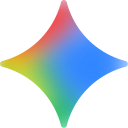
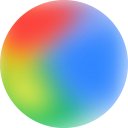
图标从菱形改为圆形

diff --git a/generate-icons.js b/generate-icons.js
@@ -7,7 +7,7 @@ if (!fs.existsSync(iconsDir)) {
   fs.mkdirSync(iconsDir);
 }
 
-const svgContent = `<svg width="512" height="512" fill="none" xmlns="http://www.w3.org/2000/svg" viewBox="0 0 65 65"><mask id="maskme" style="mask-type:alpha" maskUnits="userSpaceOnUse" x="0" y="0" width="65" height="65"><path d="M32.447 0c.68 0 1.273.465 1.439 1.125a38.904 38.904 0 001.999 5.905c2.152 5 5.105 9.376 8.854 13.125 3.751 3.75 8.126 6.703 13.125 8.855a38.98 38.98 0 005.906 1.999c.66.166 1.124.758 1.124 1.438 0 .68-.464 1.273-1.125 1.439a38.902 38.902 0 00-5.905 1.999c-5 2.152-9.375 5.105-13.125 8.854-3.749 3.751-6.702 8.126-8.854 13.125a38.973 38.973 0 00-2 5.906 1.485 1.485 0 01-1.438 1.124c-.68 0-1.272-.464-1.438-1.125a38.913 38.913 0 00-2-5.905c-2.151-5-5.103-9.375-8.854-13.125-3.75-3.749-8.125-6.702-13.125-8.854a38.973 38.973 0 00-5.905-2A1.485 1.485 0 010 32.448c0-.68.465-1.272 1.125-1.438a38.903 38.903 0 005.905-2c5-2.151 9.376-5.104 13.125-8.854 3.75-3.749 6.703-8.125 8.855-13.125a38.972 38.972 0 001.999-5.905A1.485 1.485 0 0132.447 0z" fill="#000"/><path d="M32.447 0c.68 0 1.273.465 1.439 1.125a38.904 38.904 0 001.999 5.905c2.152 5 5.105 9.376 8.854 13.125 3.751 3.75 8.126 6.703 13.125 8.855a38.98 38.98 0 005.906 1.999c.66.166 1.124.758 1.124 1.438 0 .68-.464 1.273-1.125 1.439a38.902 38.902 0 00-5.905 1.999c-5 2.152-9.375 5.105-13.125 8.854-3.749 3.751-6.702 8.126-8.854 13.125a38.973 38.973 0 00-2 5.906 1.485 1.485 0 01-1.438 1.124c-.68 0-1.272-.464-1.438-1.125a38.913 38.913 0 00-2-5.905c-2.151-5-5.103-9.375-8.854-13.125-3.75-3.749-8.125-6.702-13.125-8.854a38.973 38.973 0 00-5.905-2A1.485 1.485 0 010 32.448c0-.68.465-1.272 1.125-1.438a38.903 38.903 0 005.905-2c5-2.151 9.376-5.104 13.125-8.854 3.75-3.749 6.703-8.125 8.855-13.125a38.972 38.972 0 001.999-5.905A1.485 1.485 0 0132.447 0z" fill="url(#prefix__paint0_linear_2001_67)"/></mask><g mask="url(#maskme)"><g filter="url(#prefix__filter0_f_2001_67)"><path d="M-5.859 50.734c7.498 2.663 16.116-2.33 19.249-11.152 3.133-8.821-.406-18.131-7.904-20.794-7.498-2.663-16.116 2.33-19.25 11.151-3.132 8.822.407 18.132 7.905 20.795z" fill="#FFE432"/></g><g filter="url(#prefix__filter1_f_2001_67)"><path d="M27.433 21.649c10.3 0 18.651-8.535 18.651-19.062 0-10.528-8.35-19.062-18.651-19.062S8.78-7.94 8.78 2.587c0 10.527 8.35 19.062 18.652 19.062z" fill="#FC413D"/></g><g filter="url(#prefix__filter2_f_2001_67)"><path d="M20.184 82.608c10.753-.525 18.918-12.244 18.237-26.174-.68-13.93-9.95-24.797-20.703-24.271C6.965 32.689-1.2 44.407-.519 58.337c.681 13.93 9.95 24.797 20.703 24.271z" fill="#00B95C"/></g><g filter="url(#prefix__filter3_f_2001_67)"><path d="M20.184 82.608c10.753-.525 18.918-12.244 18.237-26.174-.68-13.93-9.95-24.797-20.703-24.271C6.965 32.689-1.2 44.407-.519 58.337c.681 13.93 9.95 24.797 20.703 24.271z" fill="#00B95C"/></g><g filter="url(#prefix__filter4_f_2001_67)"><path d="M30.954 74.181c9.014-5.485 11.427-17.976 5.389-27.9-6.038-9.925-18.241-13.524-27.256-8.04-9.015 5.486-11.428 17.977-5.39 27.902 6.04 9.924 18.242 13.523 27.257 8.038z" fill="#00B95C"/></g><g filter="url(#prefix__filter5_f_2001_67)"><path d="M67.391 42.993c10.132 0 18.346-7.91 18.346-17.666 0-9.757-8.214-17.667-18.346-17.667s-18.346 7.91-18.346 17.667c0 9.757 8.214 17.666 18.346 17.666z" fill="#3186FF"/></g><g filter="url(#prefix__filter6_f_2001_67)"><path d="M-13.065 40.944c9.33 7.094 22.959 4.869 30.442-4.972 7.483-9.84 5.987-23.569-3.343-30.663C4.704-1.786-8.924.439-16.408 10.28c-7.483 9.84-5.986 23.57 3.343 30.664z" fill="#FBBC04"/></g><g filter="url(#prefix__filter7_f_2001_67)"><path d="M34.74 51.43c11.135 7.656 25.896 5.524 32.968-4.764 7.073-10.287 3.779-24.832-7.357-32.488C49.215 6.52 34.455 8.654 27.382 18.94c-7.072 10.288-3.779 24.833 7.357 32.49z" fill="#3186FF"/></g><g filter="url(#prefix__filter8_f_2001_67)"><path d="M54.984-2.336c2.833 3.852-.808 11.34-8.131 16.727-7.324 5.387-15.557 6.631-18.39 2.78-2.833-3.853.807-11.342 8.13-16.728 7.324-5.387 15.558-6.631 18.39-2.78z" fill="#749BFF"/></g><g filter="url(#prefix__filter9_f_2001_67)"><path d="M31.727 16.104C43.053 5.598 46.94-8.626 40.41-15.666c-6.53-7.04-21.006-4.232-32.332 6.274s-15.214 24.73-8.683 31.77c6.53 7.04 21.006 4.232 32.332-6.274z" fill="#FC413D"/></g><g filter="url(#prefix__filter10_f_2001_67)"><path d="M8.51 53.838c6.732 4.818 14.46 5.55 17.262 1.636 2.802-3.915-.384-10.994-7.116-15.812-6.731-4.818-14.46-5.55-17.261-1.636-2.802 3.915.383 10.994 7.115 15.812z" fill="#FFEE48"/></g></g><defs><filter id="prefix__filter0_f_2001_67" x="-19.824" y="13.152" width="39.274" height="43.217" filterUnits="userSpaceOnUse" color-interpolation-filters="sRGB"><feFlood flood-opacity="0" result="BackgroundImageFix"/><feBlend in="SourceGraphic" in2="BackgroundImageFix" result="shape"/><feGaussianBlur stdDeviation="2.46" result="effect1_foregroundBlur_2001_67"/></filter><filter id="prefix__filter1_f_2001_67" x="-15.001" y="-40.257" width="84.868" height="85.688" filterUnits="userSpaceOnUse" color-interpolation-filters="sRGB"><feFlood flood-opacity="0" result="BackgroundImageFix"/><feBlend in="SourceGraphic" in2="BackgroundImageFix" result="shape"/><feGaussianBlur stdDeviation="11.891" result="effect1_foregroundBlur_2001_67"/></filter><filter id="prefix__filter2_f_2001_67" x="-20.776" y="11.927" width="79.454" height="90.916" filterUnits="userSpaceOnUse" color-interpolation-filters="sRGB"><feFlood flood-opacity="0" result="BackgroundImageFix"/><feBlend in="SourceGraphic" in2="BackgroundImageFix" result="shape"/><feGaussianBlur stdDeviation="10.109" result="effect1_foregroundBlur_2001_67"/></filter><filter id="prefix__filter3_f_2001_67" x="-20.776" y="11.927" width="79.454" height="90.916" filterUnits="userSpaceOnUse" color-interpolation-filters="sRGB"><feFlood flood-opacity="0" result="BackgroundImageFix"/><feBlend in="SourceGraphic" in2="BackgroundImageFix" result="shape"/><feGaussianBlur stdDeviation="10.109" result="effect1_foregroundBlur_2001_67"/></filter><filter id="prefix__filter4_f_2001_67" x="-19.845" y="15.459" width="79.731" height="81.505" filterUnits="userSpaceOnUse" color-interpolation-filters="sRGB"><feFlood flood-opacity="0" result="BackgroundImageFix"/><feBlend in="SourceGraphic" in2="BackgroundImageFix" result="shape"/><feGaussianBlur stdDeviation="10.109" result="effect1_foregroundBlur_2001_67"/></filter><filter id="prefix__filter5_f_2001_67" x="29.832" y="-11.552" width="75.117" height="73.758" filterUnits="userSpaceOnUse" color-interpolation-filters="sRGB"><feFlood flood-opacity="0" result="BackgroundImageFix"/><feBlend in="SourceGraphic" in2="BackgroundImageFix" result="shape"/><feGaussianBlur stdDeviation="9.606" result="effect1_foregroundBlur_2001_67"/></filter><filter id="prefix__filter6_f_2001_67" x="-38.583" y="-16.253" width="78.135" height="78.758" filterUnits="userSpaceOnUse" color-interpolation-filters="sRGB"><feFlood flood-opacity="0" result="BackgroundImageFix"/><feBlend in="SourceGraphic" in2="BackgroundImageFix" result="shape"/><feGaussianBlur stdDeviation="8.706" result="effect1_foregroundBlur_2001_67"/></filter><filter id="prefix__filter7_f_2001_67" x="8.107" y="-5.966" width="78.877" height="77.539" filterUnits="userSpaceOnUse" color-interpolation-filters="sRGB"><feFlood flood-opacity="0" result="BackgroundImageFix"/><feBlend in="SourceGraphic" in2="BackgroundImageFix" result="shape"/><feGaussianBlur stdDeviation="7.775" result="effect1_foregroundBlur_2001_67"/></filter><filter id="prefix__filter8_f_2001_67" x="13.587" y="-18.488" width="56.272" height="51.81" filterUnits="userSpaceOnUse" color-interpolation-filters="sRGB"><feFlood flood-opacity="0" result="BackgroundImageFix"/><feBlend in="SourceGraphic" in2="BackgroundImageFix" result="shape"/><feGaussianBlur stdDeviation="6.957" result="effect1_foregroundBlur_2001_67"/></filter><filter id="prefix__filter9_f_2001_67" x="-15.526" y="-31.297" width="70.856" height="69.306" filterUnits="userSpaceOnUse" color-interpolation-filters="sRGB"><feFlood flood-opacity="0" result="BackgroundImageFix"/><feBlend in="SourceGraphic" in2="BackgroundImageFix" result="shape"/><feGaussianBlur stdDeviation="5.876" result="effect1_foregroundBlur_2001_67"/></filter><filter id="prefix__filter10_f_2001_67" x="-14.168" y="20.964" width="55.501" height="51.571" filterUnits="userSpaceOnUse" color-interpolation-filters="sRGB"><feFlood flood-opacity="0" result="BackgroundImageFix"/><feBlend in="SourceGraphic" in2="BackgroundImageFix" result="shape"/><feGaussianBlur stdDeviation="7.273" result="effect1_foregroundBlur_2001_67"/></filter><linearGradient id="prefix__paint0_linear_2001_67" x1="18.447" y1="43.42" x2="52.153" y2="15.004" gradientUnits="userSpaceOnUse"><stop stop-color="#4893FC"/><stop offset=".27" stop-color="#4893FC"/><stop offset=".777" stop-color="#969DFF"/><stop offset="1" stop-color="#BD99FE"/></linearGradient></defs></svg>`;
+const svgContent = `<svg width="512" height="512" fill="none" xmlns="http://www.w3.org/2000/svg" viewBox="0 0 65 65"><mask id="maskme" style="mask-type:alpha" maskUnits="userSpaceOnUse" x="0" y="0" width="65" height="65"><circle cx="32.5" cy="32.5" r="32.5" fill="#000"/><circle cx="32.5" cy="32.5" r="32.5" fill="url(#prefix__paint0_linear_2001_67)"/></mask><g mask="url(#maskme)"><g filter="url(#prefix__filter0_f_2001_67)"><path d="M-5.859 50.734c7.498 2.663 16.116-2.33 19.249-11.152 3.133-8.821-.406-18.131-7.904-20.794-7.498-2.663-16.116 2.33-19.25 11.151-3.132 8.822.407 18.132 7.905 20.795z" fill="#FFE432"/></g><g filter="url(#prefix__filter1_f_2001_67)"><path d="M27.433 21.649c10.3 0 18.651-8.535 18.651-19.062 0-10.528-8.35-19.062-18.651-19.062S8.78-7.94 8.78 2.587c0 10.527 8.35 19.062 18.652 19.062z" fill="#FC413D"/></g><g filter="url(#prefix__filter2_f_2001_67)"><path d="M20.184 82.608c10.753-.525 18.918-12.244 18.237-26.174-.68-13.93-9.95-24.797-20.703-24.271C6.965 32.689-1.2 44.407-.519 58.337c.681 13.93 9.95 24.797 20.703 24.271z" fill="#00B95C"/></g><g filter="url(#prefix__filter3_f_2001_67)"><path d="M20.184 82.608c10.753-.525 18.918-12.244 18.237-26.174-.68-13.93-9.95-24.797-20.703-24.271C6.965 32.689-1.2 44.407-.519 58.337c.681 13.93 9.95 24.797 20.703 24.271z" fill="#00B95C"/></g><g filter="url(#prefix__filter4_f_2001_67)"><path d="M30.954 74.181c9.014-5.485 11.427-17.976 5.389-27.9-6.038-9.925-18.241-13.524-27.256-8.04-9.015 5.486-11.428 17.977-5.39 27.902 6.04 9.924 18.242 13.523 27.257 8.038z" fill="#00B95C"/></g><g filter="url(#prefix__filter5_f_2001_67)"><path d="M67.391 42.993c10.132 0 18.346-7.91 18.346-17.666 0-9.757-8.214-17.667-18.346-17.667s-18.346 7.91-18.346 17.667c0 9.757 8.214 17.666 18.346 17.666z" fill="#3186FF"/></g><g filter="url(#prefix__filter6_f_2001_67)"><path d="M-13.065 40.944c9.33 7.094 22.959 4.869 30.442-4.972 7.483-9.84 5.987-23.569-3.343-30.663C4.704-1.786-8.924.439-16.408 10.28c-7.483 9.84-5.986 23.57 3.343 30.664z" fill="#FBBC04"/></g><g filter="url(#prefix__filter7_f_2001_67)"><path d="M34.74 51.43c11.135 7.656 25.896 5.524 32.968-4.764 7.073-10.287 3.779-24.832-7.357-32.488C49.215 6.52 34.455 8.654 27.382 18.94c-7.072 10.288-3.779 24.833 7.357 32.49z" fill="#3186FF"/></g><g filter="url(#prefix__filter8_f_2001_67)"><path d="M54.984-2.336c2.833 3.852-.808 11.34-8.131 16.727-7.324 5.387-15.557 6.631-18.39 2.78-2.833-3.853.807-11.342 8.13-16.728 7.324-5.387 15.558-6.631 18.39-2.78z" fill="#749BFF"/></g><g filter="url(#prefix__filter9_f_2001_67)"><path d="M31.727 16.104C43.053 5.598 46.94-8.626 40.41-15.666c-6.53-7.04-21.006-4.232-32.332 6.274s-15.214 24.73-8.683 31.77c6.53 7.04 21.006 4.232 32.332-6.274z" fill="#FC413D"/></g><g filter="url(#prefix__filter10_f_2001_67)"><path d="M8.51 53.838c6.732 4.818 14.46 5.55 17.262 1.636 2.802-3.915-.384-10.994-7.116-15.812-6.731-4.818-14.46-5.55-17.261-1.636-2.802 3.915.383 10.994 7.115 15.812z" fill="#FFEE48"/></g></g><defs><filter id="prefix__filter0_f_2001_67" x="-19.824" y="13.152" width="39.274" height="43.217" filterUnits="userSpaceOnUse" color-interpolation-filters="sRGB"><feFlood flood-opacity="0" result="BackgroundImageFix"/><feBlend in="SourceGraphic" in2="BackgroundImageFix" result="shape"/><feGaussianBlur stdDeviation="2.46" result="effect1_foregroundBlur_2001_67"/></filter><filter id="prefix__filter1_f_2001_67" x="-15.001" y="-40.257" width="84.868" height="85.688" filterUnits="userSpaceOnUse" color-interpolation-filters="sRGB"><feFlood flood-opacity="0" result="BackgroundImageFix"/><feBlend in="SourceGraphic" in2="BackgroundImageFix" result="shape"/><feGaussianBlur stdDeviation="11.891" result="effect1_foregroundBlur_2001_67"/></filter><filter id="prefix__filter2_f_2001_67" x="-20.776" y="11.927" width="79.454" height="90.916" filterUnits="userSpaceOnUse" color-interpolation-filters="sRGB"><feFlood flood-opacity="0" result="BackgroundImageFix"/><feBlend in="SourceGraphic" in2="BackgroundImageFix" result="shape"/><feGaussianBlur stdDeviation="10.109" result="effect1_foregroundBlur_2001_67"/></filter><filter id="prefix__filter3_f_2001_67" x="-20.776" y="11.927" width="79.454" height="90.916" filterUnits="userSpaceOnUse" color-interpolation-filters="sRGB"><feFlood flood-opacity="0" result="BackgroundImageFix"/><feBlend in="SourceGraphic" in2="BackgroundImageFix" result="shape"/><feGaussianBlur stdDeviation="10.109" result="effect1_foregroundBlur_2001_67"/></filter><filter id="prefix__filter4_f_2001_67" x="-19.845" y="15.459" width="79.731" height="81.505" filterUnits="userSpaceOnUse" color-interpolation-filters="sRGB"><feFlood flood-opacity="0" result="BackgroundImageFix"/><feBlend in="SourceGraphic" in2="BackgroundImageFix" result="shape"/><feGaussianBlur stdDeviation="10.109" result="effect1_foregroundBlur_2001_67"/></filter><filter id="prefix__filter5_f_2001_67" x="29.832" y="-11.552" width="75.117" height="73.758" filterUnits="userSpaceOnUse" color-interpolation-filters="sRGB"><feFlood flood-opacity="0" result="BackgroundImageFix"/><feBlend in="SourceGraphic" in2="BackgroundImageFix" result="shape"/><feGaussianBlur stdDeviation="9.606" result="effect1_foregroundBlur_2001_67"/></filter><filter id="prefix__filter6_f_2001_67" x="-38.583" y="-16.253" width="78.135" height="78.758" filterUnits="userSpaceOnUse" color-interpolation-filters="sRGB"><feFlood flood-opacity="0" result="BackgroundImageFix"/><feBlend in="SourceGraphic" in2="BackgroundImageFix" result="shape"/><feGaussianBlur stdDeviation="8.706" result="effect1_foregroundBlur_2001_67"/></filter><filter id="prefix__filter7_f_2001_67" x="8.107" y="-5.966" width="78.877" height="77.539" filterUnits="userSpaceOnUse" color-interpolation-filters="sRGB"><feFlood flood-opacity="0" result="BackgroundImageFix"/><feBlend in="SourceGraphic" in2="BackgroundImageFix" result="shape"/><feGaussianBlur stdDeviation="7.775" result="effect1_foregroundBlur_2001_67"/></filter><filter id="prefix__filter8_f_2001_67" x="13.587" y="-18.488" width="56.272" height="51.81" filterUnits="userSpaceOnUse" color-interpolation-filters="sRGB"><feFlood flood-opacity="0" result="BackgroundImageFix"/><feBlend in="SourceGraphic" in2="BackgroundImageFix" result="shape"/><feGaussianBlur stdDeviation="6.957" result="effect1_foregroundBlur_2001_67"/></filter><filter id="prefix__filter9_f_2001_67" x="-15.526" y="-31.297" width="70.856" height="69.306" filterUnits="userSpaceOnUse" color-interpolation-filters="sRGB"><feFlood flood-opacity="0" result="BackgroundImageFix"/><feBlend in="SourceGraphic" in2="BackgroundImageFix" result="shape"/><feGaussianBlur stdDeviation="5.876" result="effect1_foregroundBlur_2001_67"/></filter><filter id="prefix__filter10_f_2001_67" x="-14.168" y="20.964" width="55.501" height="51.571" filterUnits="userSpaceOnUse" color-interpolation-filters="sRGB"><feFlood flood-opacity="0" result="BackgroundImageFix"/><feBlend in="SourceGraphic" in2="BackgroundImageFix" result="shape"/><feGaussianBlur stdDeviation="7.273" result="effect1_foregroundBlur_2001_67"/></filter><linearGradient id="prefix__paint0_linear_2001_67" x1="18.447" y1="43.42" x2="52.153" y2="15.004" gradientUnits="userSpaceOnUse"><stop stop-color="#4893FC"/><stop offset=".27" stop-color="#4893FC"/><stop offset=".777" stop-color="#969DFF"/><stop offset="1" stop-color="#BD99FE"/></linearGradient></defs></svg>`;
 
 const svgPath = path.join(iconsDir, 'gemini-icon.svg');
 fs.writeFileSync(svgPath, svgContent);
